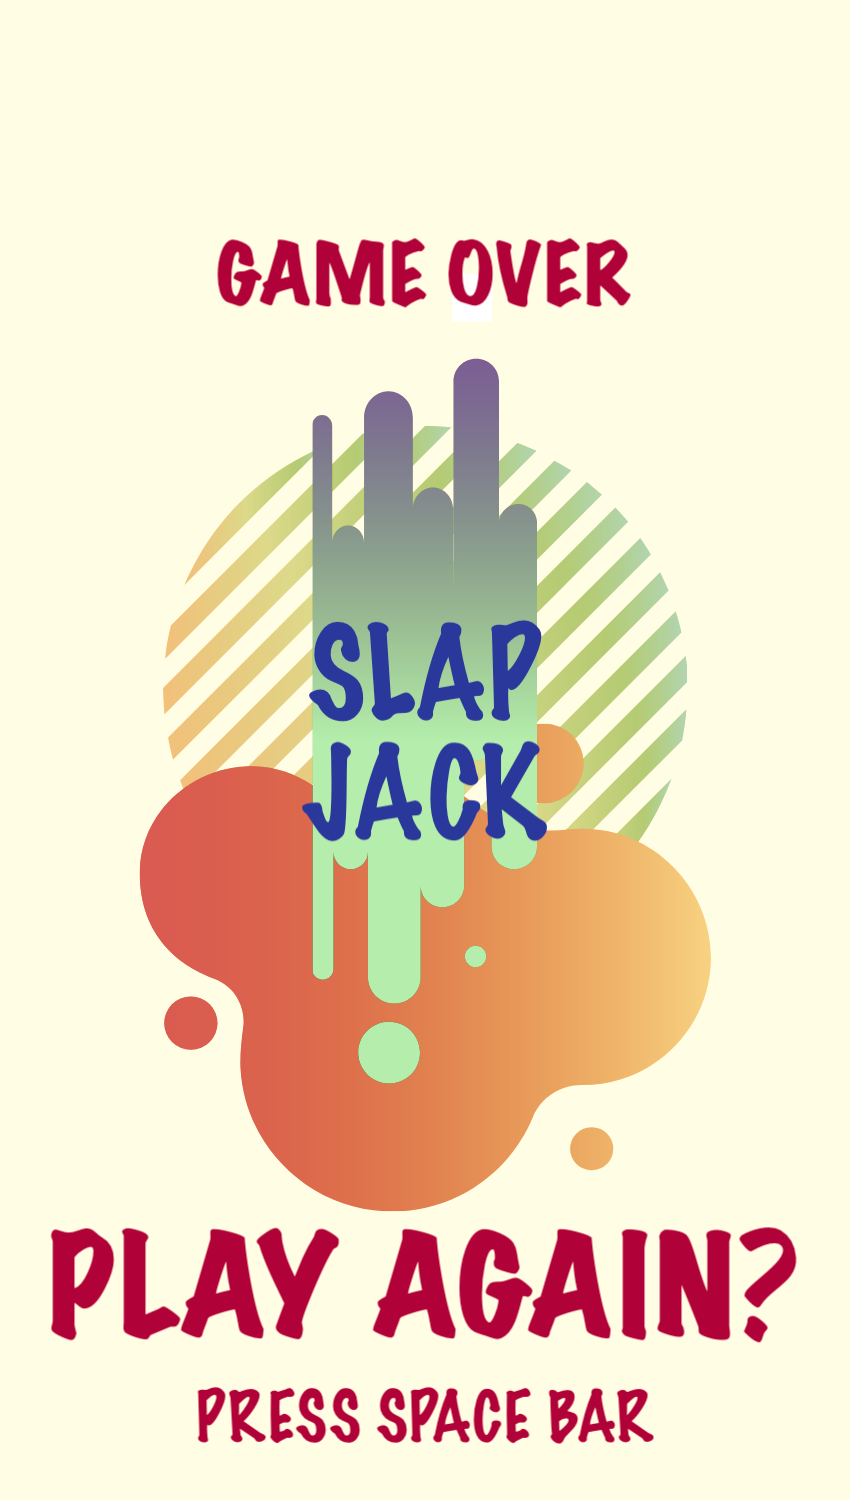
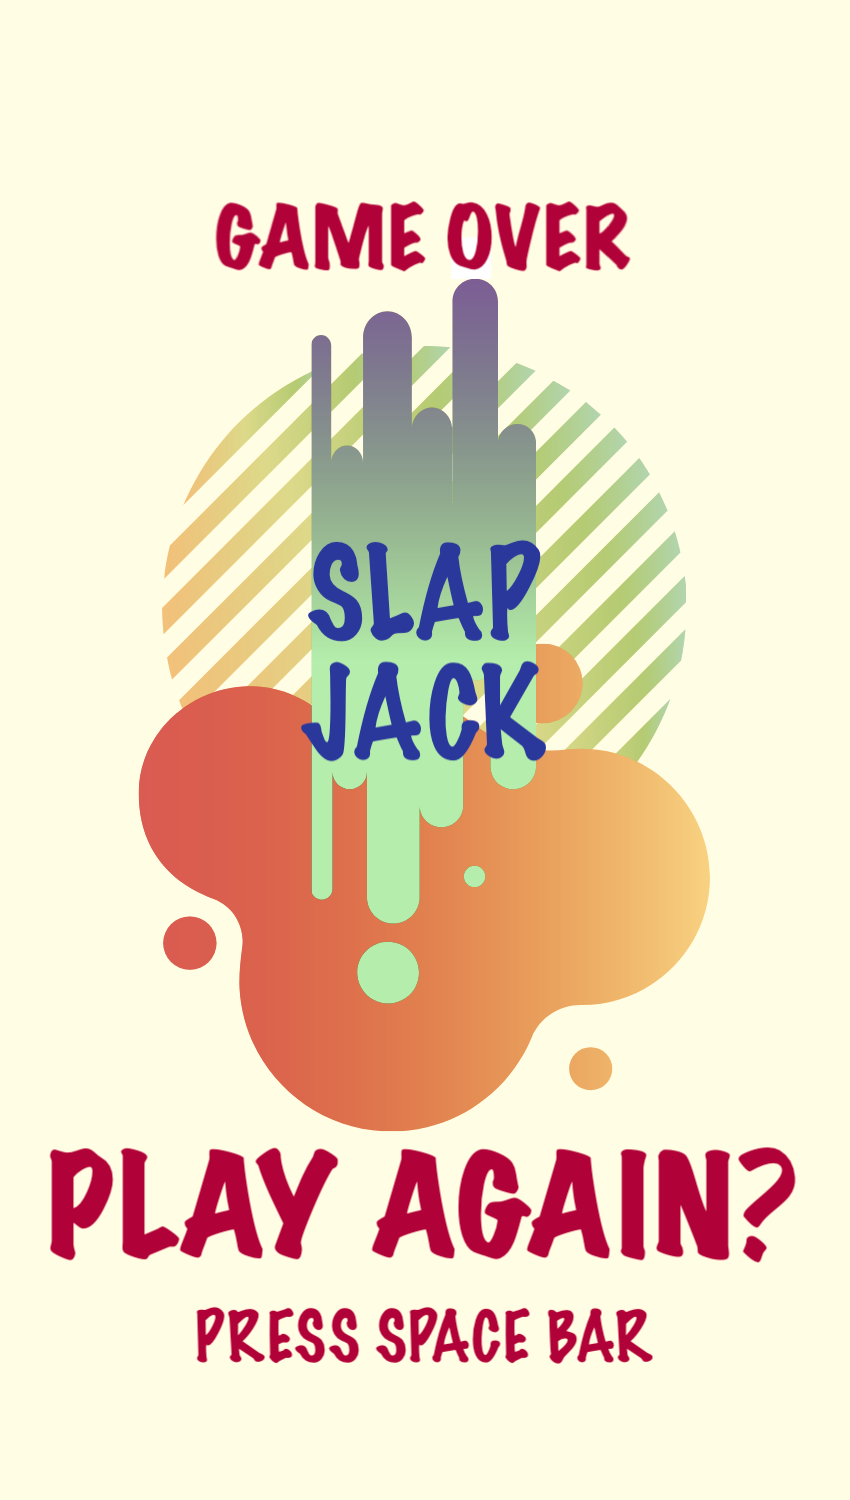
Adds rules, button, layout, and display function

Changed region(s): [[0.0612, 0.1227, 0.9482, 0.9813]]

diff --git a/styles.css b/styles.css
@@ -3,26 +3,18 @@
     border-radius: 4%;
     text-align: center;
   }
-  
+
 body {
+    display: block;
     color: white;
-    max-width: 1200px;
-    min-width: 750px;
-}
-
-/* FIREFOX  */
-body {
-    height: 100vh;
-    max-height: 775px;
-}
-
-.background-img {
-   opacity: .9;
-}
+    background-image: url("./assets/watercolor-large.jpg");
+    background-repeat: no-repeat;
+    background-color: rgb(42, 55, 155);
+} 
 
 .h1-wrapper {
     position: relative;
-    height: 70px;
+    height: 100px;
     width: auto;
     margin: 10px;
     top: 1.5em;
@@ -43,7 +35,7 @@ h1 {
     background-color: rgba(42, 55, 155, 0.508);
 }
 
-h3 {
+h3, h4 {
     box-sizing: border-box;
     position: relative;
     display: flex;
@@ -69,14 +61,19 @@ h3 {
     margin-right: 10%;
     margin-left: 20%;
 }
-  
+
 section {
     position: relative;
     display: flex;
     width: 100%;
     justify-content: space-around;
     padding: 5px;
-    top: 6em;
+    /* top: .5em; */
+}
+
+#deck-cards {
+    top: 5em;
+    margin-top: 4%;
 }
 
 .deck-cards {
@@ -85,8 +82,8 @@ section {
     height: 290px;
     justify-content: center;
 }
-  
-img {
+
+div > img {
     display: flex;
     object-fit: cover;
     object-position: center;
@@ -96,25 +93,62 @@ img {
     padding: 11px;
 }
 
-img.playerTurnA {
-    background-color: gold;
-}
-
-/* img.playerTurnB {
-    background-color: gold;
-} */
-
 .playerA {
     border: rgba(176, 1, 56, 0.947) 20px solid;
 }
 
 .middle-pile {
     border: rgba(42, 55, 155, .95) 20px solid;
-
 }
 
 .playerB {
     border: rgb(176, 1, 56, 0.947) 20px solid;
+}
+
+img.playerTurnA {
+    background-color: gold;
+}
+
+#win-section {
+    top: 5em;
+    margin-bottom: 7.5em;
+}
+
+.footer {
+    margin-top: 0;
+    position: inherit;
+    display: block;
+    justify-content: flex-start; 
+    top: .5em;
+    height: 100%
+}
+
+.rules {
+    display: flex;
+    justify-content: center;
+}
+
+.button-wrapper {
+    position: relative;
+    display: flex;
+    justify-content: flex-start;
+    margin-left: 1%;
+}
+
+button {
+    width: auto;
+    height: auto;
+    color: rgba(42, 55, 155, .95);
+    border: rgba(42, 55, 155, .95) 3px solid;
+    background-color: rgba(42, 55, 155, .2);
+}
+
+section > img {
+    display: flex;
+    object-position: center;
+    width: auto;
+    height: 750px;
+    margin: 0;
 }
 
 .hidden {
@@ -122,18 +156,18 @@ img.playerTurnA {
 }
 
 
-
+/* 
 .win-section {
     display: flex;
     justify-items: self-end;
     position: relative;
     padding-left: 3px;
     padding-right: 3px;
-}
+} 
+*/
 /* *SPACING- deckCards(top)* */
 
-
-#deck-cards {
+/* #deck-cards {
     margin-top: 6%;
-}
+} */
   

diff --git a/index.html b/index.html
@@ -7,13 +7,14 @@
         <title>SLAP-JACK: FINAL PROJECT mod1#2005</title>
     </head>
     <div class="h1-wrapper">
-     <h1 class="ontop"> 2 PLAYER SLAP-JACK! </h1>
+      <h1 class="ontop"> 2 PLAYER SLAP-JACK! </h1>
     </div>
-     <body class="background-img" background="./assets/watercolor-background.png"></body>   
+    <body>
+      <main>
         <section id="deck-cards"> 
           <div id="deck-card-pA" class="deck-cards player-hand playerTurn-A" name="playerA" background-img="">              
-          <img id="playerA"  class="card-back playerA playerTurnA" src="./assets/deckCard/back.png" alt="">
-        </div>
+            <img id="playerA"  class="card-back playerA playerTurnA" src="./assets/deckCard/back.png" alt="">
+          </div>
           <div id="deck-card-C" class="deck-cards center-pile" name="middle" background-img="">
             <img id="center-pile" class="card-front middle-pile" src="./assets/deckCard/default.png" alt="">
           </div>
@@ -25,10 +26,23 @@
           <h3 id="winsA" class="h3-ontop h3-A win-sectionA"># Wins</h3>
           <h3></h3>
           <h3 id="winsB" class="h3-ontop h3-B win-sectionB"># Wins</h3>
-        </secton>       
-        <script src="./src/Player.js"></script>
-        <script src="./src/Game.js"></script> 
-        <script src="./src/main.js"></script>
+        </section>
+      </main>
+      <section class="footer">
+        <section class="rules hidden">
+          <img id="slap-jack-rules"  class="rules-img" src="./assets/slap-jack-rules.png" alt="image of Slap-Jack rules">       
+        </section>
+        <section class="button-wrapper">
+          <button id="rules" class="rules-btn" type="button">
+            <h4 id="rules-txt" class="rules-txt">SLAP-JACK RULES</h4>
+            <h4 id="done-txt" class="done-txt hidden">RETURN TO GAME</h4>
+          </button> 
+        </section>     
+      </section> 
+
+      <script src="./src/Player.js"></script>
+      <script src="./src/Game.js"></script> 
+      <script src="./src/main.js"></script>
   </body>
 
 </html>

diff --git a/src/main.js b/src/main.js
@@ -1,6 +1,9 @@
 var game;
 document.onload = retrieveFromStorage();
 
+//document.querySelector("button").addEventListener("click", displayRules);
+document.querySelector("button").addEventListener("click", toggleRules);
+
 document.addEventListener("keydown", delegateDealvsSlap);
 
 function delegateDealvsSlap(event) {
@@ -133,7 +136,7 @@ function clearMessage(milliseconds) {
 };
 
 function askPlayAgain() { 
-    document.getElementById("center-pile").src = "./assets/deckCard/slap-jack-again.png";
+    document.getElementById("center-pile").src = "./assets/deckCard/game-over.png";
 };
 
 function shortcut() {
@@ -144,4 +147,21 @@ function shortcut() {
     game.shuffle(game.playerA.hand);
     game.checkGameStatus();
     displayGame(game.playersTurn);
+};
+
+// function displayRules() {
+//     document.querySelector("main").classList.add("hidden");
+//     document.querySelector(".h1-wrapper").classList.add("hidden");
+//     document.querySelector(".rules").classList.remove("hidden");
+//     document.querySelector("#rules-txt").classList.add("hidden");
+//     document.querySelector("#done-txt").classList.remove("hidden");
+// };
+
+function toggleRules() {
+    document.querySelector("main").classList.toggle("hidden");
+    document.querySelector(".h1-wrapper").classList.toggle("hidden");
+    document.querySelector("h1").classList.toggle("hidden");
+    document.querySelector(".rules").classList.toggle("hidden");
+    document.querySelector("#rules-txt").classList.toggle("hidden");
+    document.querySelector("#done-txt").classList.toggle("hidden");
 };
